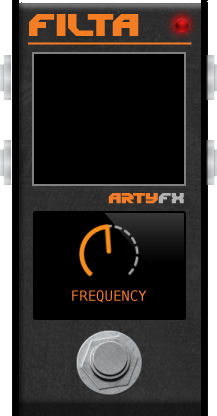
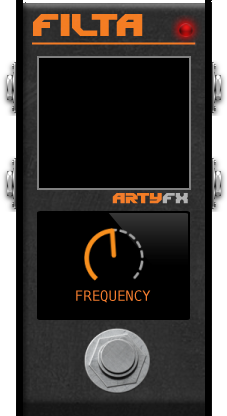
Update filta modgui

diff --git a/filta-modgui.lv2/modgui/filta.css b/filta-modgui.lv2/modgui/filta.css
@@ -1,0 +1,233 @@
+
+/* STYLES FOR THE BOXY PEDAL */
+
+@import url(/fonts/nexa/stylesheet.css);
+@import url(/fonts/questrial/stylesheet.css);
+
+/* = CONTAINER
+================================================ */
+.mod-pedal-boxy{{{cns}}} {
+    background-position:center center;
+    background-repeat:no-repeat;
+    background-size:230px 431px;
+    height:431px;
+    position:absolute;
+    width:230px;
+    border-radius: 26px;
+}
+
+/* = PLUGIN'S AUTHOR
+================================================ */
+.mod-pedal-boxy{{{cns}}} .mod-plugin-brand {
+    left:0;
+    position:absolute;
+    right:0;
+    text-align:center;
+    text-transform:uppercase;
+    top:160px;
+}
+
+.mod-pedal-boxy{{{cns}}} .mod-plugin-brand h1 {
+    border-color:#000;
+    border-radius:12px;
+    border-style:solid;
+    border-width:4px;
+    display:inline-block;
+    font-family:"Nexa";
+    font-size:32px;
+    padding:3px 9px 0;
+}
+
+/* = PLUGIN'S NAME
+================================================ */
+.mod-pedal-boxy{{{cns}}} .mod-plugin-name {
+    left:30px;
+    overflow:hidden;
+    position:absolute;
+    right:30px;
+    text-align:center;
+    top:340px;
+}
+
+.mod-pedal-boxy{{{cns}}} .mod-plugin-name h1 {
+    font-family:"Questrial";
+    font-size:21px;
+    line-height:1;
+}
+
+/* = LIGHT ON/OFF
+================================================ */
+.mod-pedal-boxy{{{cns}}} .mod-light {
+    background-position:center center;
+    background-repeat:no-repeat;
+    height:32px;
+    left:10px;
+    position:absolute;
+    right:10px;
+    top:235px;
+}
+
+/* = KNOBS
+================================================ */
+.mod-pedal-boxy{{{cns}}} .mod-control-group {
+    margin:20px;
+    position:relative;
+    text-align:center;
+    z-index:30;
+}
+
+.mod-pedal-boxy{{{cns}}} .mod-control-group .mod-knob {
+    overflow:hidden;
+    position:relative;
+}
+
+.mod-pedal-boxy{{{cns}}} .mod-control-group .mod-knob {
+    height:110px;
+}
+
+.mod-pedal-boxy{{{cns}}} .mod-control-group .mod-knob > span.mod-knob-title {
+    bottom:0px;
+    display:block;
+    font-size:11px;
+    font-weight:bold;
+    height:12px;
+    left:0;
+    line-height:1;
+    margin:0;
+    overflow:hidden;
+    padding:0;
+    position:absolute;
+    right:0;
+    text-transform:uppercase;
+}
+
+/* = ENUMERATED LIST
+================================================ */
+.mod-pedal-boxy{{{cns}}} .mod-enumerated-group {
+    height:31px;
+    margin:20px auto 0 !important;
+    position:relative;
+    width:190px;
+    z-index:35;
+}
+
+.mod-pedal-boxy{{{cns}}} .mod-enumerated {
+    background-position:right center;
+    background-repeat:no-repeat;
+    font-size:11px;
+    font-weight:bold;
+    left:0;
+    line-height:2;
+    overflow:hidden;
+    position:absolute;
+    right:0;
+    text-align:left;
+}
+
+.mod-pedal-boxy{{{cns}}} .mod-enumerated .mod-enumerated-selected {
+    background-color:rgba(0,0,0,.3);
+    box-shadow:inset 0 0 4px rgba(0,0,0,.3);
+    border-radius:4px;
+    padding:3px 9px;
+}
+
+.mod-pedal-boxy{{{cns}}} .mod-enumerated .mod-enumerated-selected {
+    border-radius:4px 4px 0 0;
+}
+
+.mod-pedal-boxy{{{cns}}} .mod-enumerated .mod-enumerated-list {
+    display:none;
+    color:#fff;
+}
+
+.mod-pedal-boxy{{{cns}}} .mod-enumerated .mod-enumerated-list {
+    background-color:rgba(0,0,0,.9);
+    display:none;
+    height:115px;
+    overflow:auto;
+    position:relative;
+}
+
+.mod-pedal-boxy{{{cns}}} .mod-enumerated .mod-enumerated-list > div {
+    padding:3px 9px;
+}
+
+.mod-pedal-boxy{{{cns}}} .mod-enumerated .mod-enumerated-list > div:hover {
+    background-color:rgba(255,255,255,.2);
+    cursor:pointer;
+}
+
+/* STYLES FOR THE PLUGIN */
+
+.artyfx-filta * {
+    color: white !important;
+}
+.artyfx-filta {
+    background-image:url(/resources/artyfx_filta.png{{{ns}}}) !important;
+    background-size:196px 417px;
+    width: 196px;
+    height: 417px;
+    border-radius: 0;
+}
+
+.artyfx-filta .graphics {
+    display: block;
+    width: 150px;
+    height: 130px;
+    margin: 58px auto 40px auto;
+    outline: 2px solid gray;
+    background: black;
+}
+.artyfx-filta .mod-control-group .mod-knob.switch .mod-knob-image {
+    background-image:url(/resources/artyfx-switch.png{{{ns}}}) !important;
+    background-repeat:no-repeat;
+    background-size:200px 30px;
+    height:30px;
+    margin:0 auto;
+    width:100px;
+    cursor: pointer;
+}
+.artyfx-filta .mod-control-group .mod-knob {
+    height: 95px !important;
+}
+.artyfx-filta .mod-control-group .mod-knob .mod-knob-image {
+    background-image: url(/resources/artyfx-knob.png{{{ns}}});
+    background-position:left center;
+    background-repeat:no-repeat;
+    background-size:auto 60px;
+    height:60px;
+    width:60px;
+    margin:0 auto;
+    cursor: pointer;
+    position:relative;
+    overflow:hidden;
+}
+.artyfx-filta .mod-light {
+    top: 15px;
+    left: 155px;
+}
+.artyfx-filta .mod-footswitch {
+    background-image:url(/resources/footswitch.png{{{ns}}});
+    background-position:top center;
+    background-repeat:no-repeat;
+    background-size:auto 132px;
+    bottom: 23px;
+    cursor:pointer;
+    height:66px;
+    width: 66px;
+    left: 68px !important;
+    position:absolute;
+}
+.artyfx-filta .mod-footswitch.on {
+    background-position:top center;
+}
+.artyfx-filta .mod-footswitch.off {
+    background-position:bottom center;
+}
+
+.artyfx-filta .mod-pedal-input , .artyfx-filta .mod-pedal-output {
+    top: 60px;
+}
+.artyfx-filta .mod-pedal-input .mod-input , .artyfx-filta .mod-pedal-output .mod-output {
+    margin-bottom: 40px !important
+}

diff --git a/filta-modgui.lv2/modgui/icon-filta.html b/filta-modgui.lv2/modgui/icon-filta.html
@@ -1,4 +1,4 @@
-<div class="artyfx-filta mod-pedal mod-pedal-boxy ">
+<div class="artyfx-filta mod-pedal mod-pedal-boxy{{{cns}}}">
     <div mod-role="drag-handle" class="mod-drag-handle"></div>
     <div class="graphics">
     </div>
@@ -37,75 +37,4 @@
     </div>
 </div>
 <style>
-.artyfx-filta * {
-    color: white !important;
-}
-.artyfx-filta {
-    background-image:url(/resources/artyfx_filta.png{{{ns}}}) !important;
-    background-size:201px 422px;
-    width: 200px;
-    height: 422px;
-    background-position: 18px top;
-}
-
-.artyfx-filta .graphics {
-    display: block;
-    width: 150px;
-    height: 130px;
-    margin: 58px auto 40px auto;
-    outline: 2px solid gray;
-    background: black;
-}
-.artyfx-filta .mod-control-group .mod-knob.switch .mod-knob-image {
-    background-image:url(/resources/artyfx-switch.png{{{ns}}}) !important;
-    background-repeat:no-repeat;
-    background-size:200px 30px;
-    height:30px;
-    margin:0 auto;
-    width:100px;
-    cursor: pointer;
-}
-.artyfx-filta .mod-control-group .mod-knob {
-    height: 95px !important;
-}
-.artyfx-filta .mod-control-group .mod-knob .mod-knob-image {
-    background-image: url(/resources/artyfx-knob.png{{{ns}}});
-    background-position:left center;
-    background-repeat:no-repeat;
-    background-size:auto 60px;
-    height:60px;
-    width:60px;
-    margin:0 auto;
-    cursor: pointer;
-    position:relative;
-    overflow:hidden;
-}
-.artyfx-filta .mod-light {
-    top: 15px;
-    left: 155px;
-}
-.artyfx-filta .mod-footswitch {
-    background-image:url(/resources/footswitch.png{{{ns}}});
-    background-position:top center;
-    background-repeat:no-repeat;
-    background-size:auto 132px;
-    bottom: 23px;
-    cursor:pointer;
-    height:66px;
-    left: 12px !important;
-    position:absolute;
-}
-.artyfx-filta .mod-footswitch.on {
-    background-position:top center;
-}
-.artyfx-filta .mod-footswitch.off {
-    background-position:bottom center;
-}
-
-.artyfx-filta .mod-pedal-input , .artyfx-filta .mod-pedal-output {
-    top: 60px;
-}
-.artyfx-filta .mod-pedal-input .mod-input , .artyfx-filta .mod-pedal-output .mod-output {
-    margin-bottom: 40px !important
-}
 </style>
